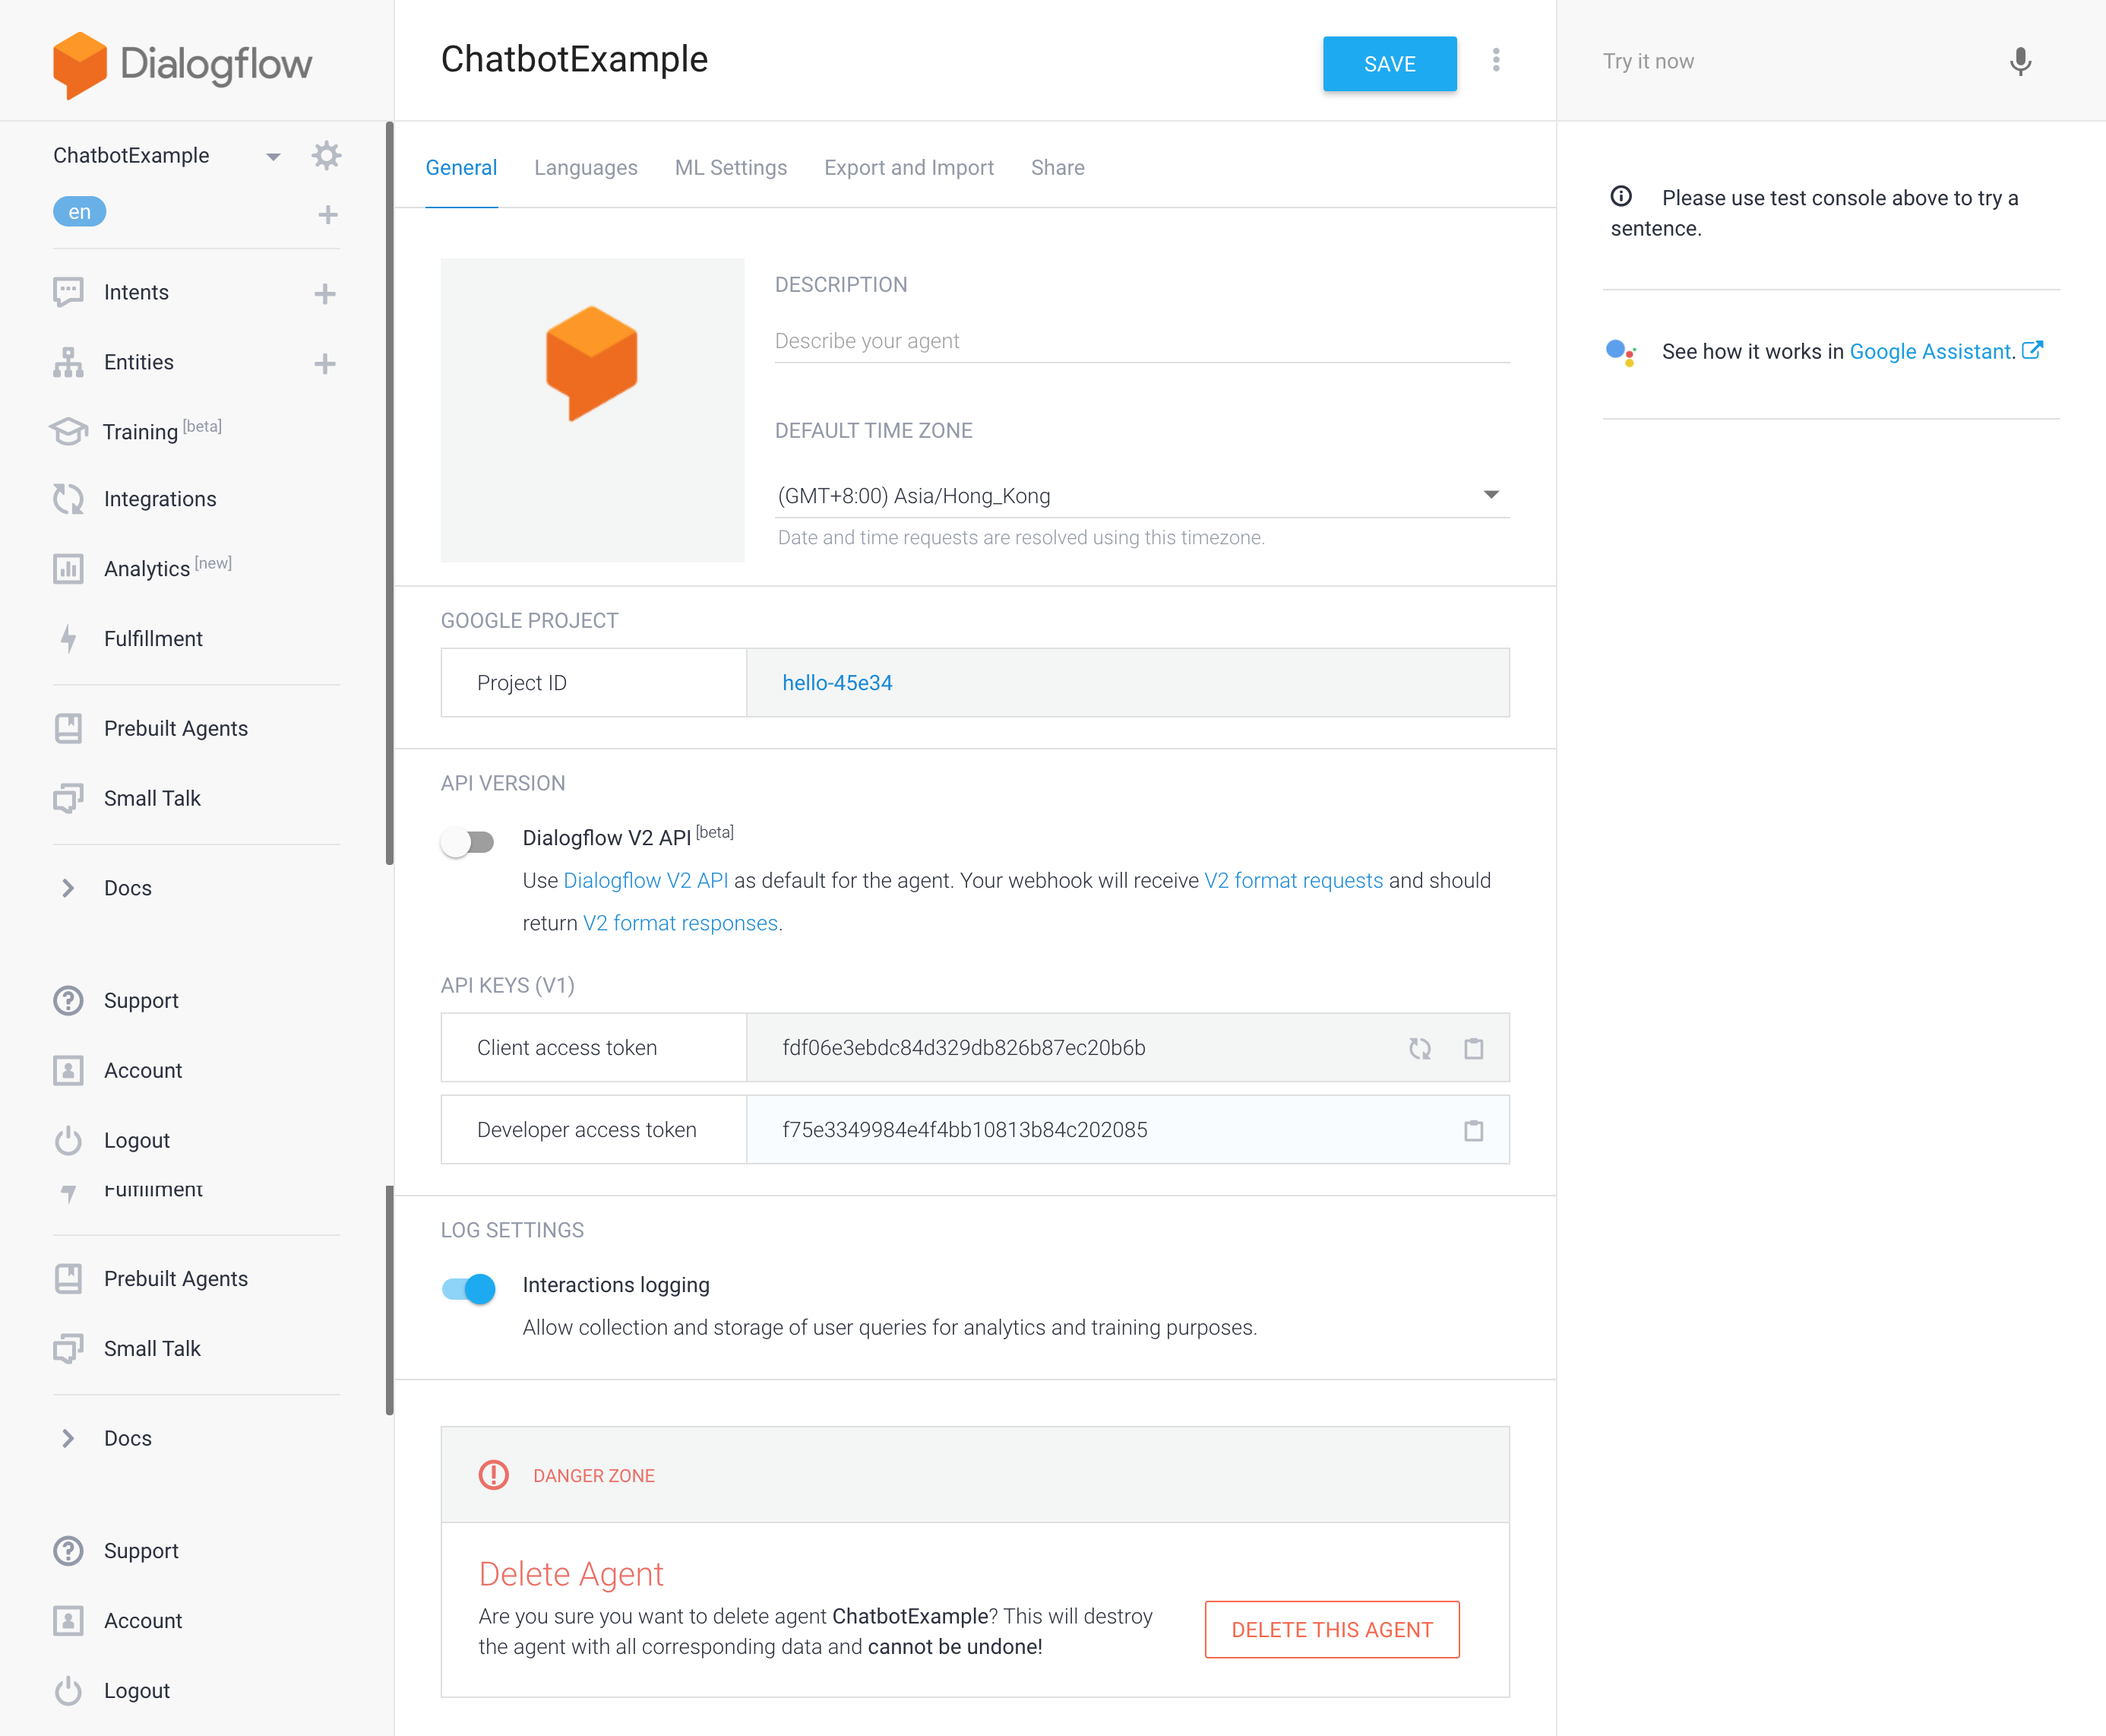
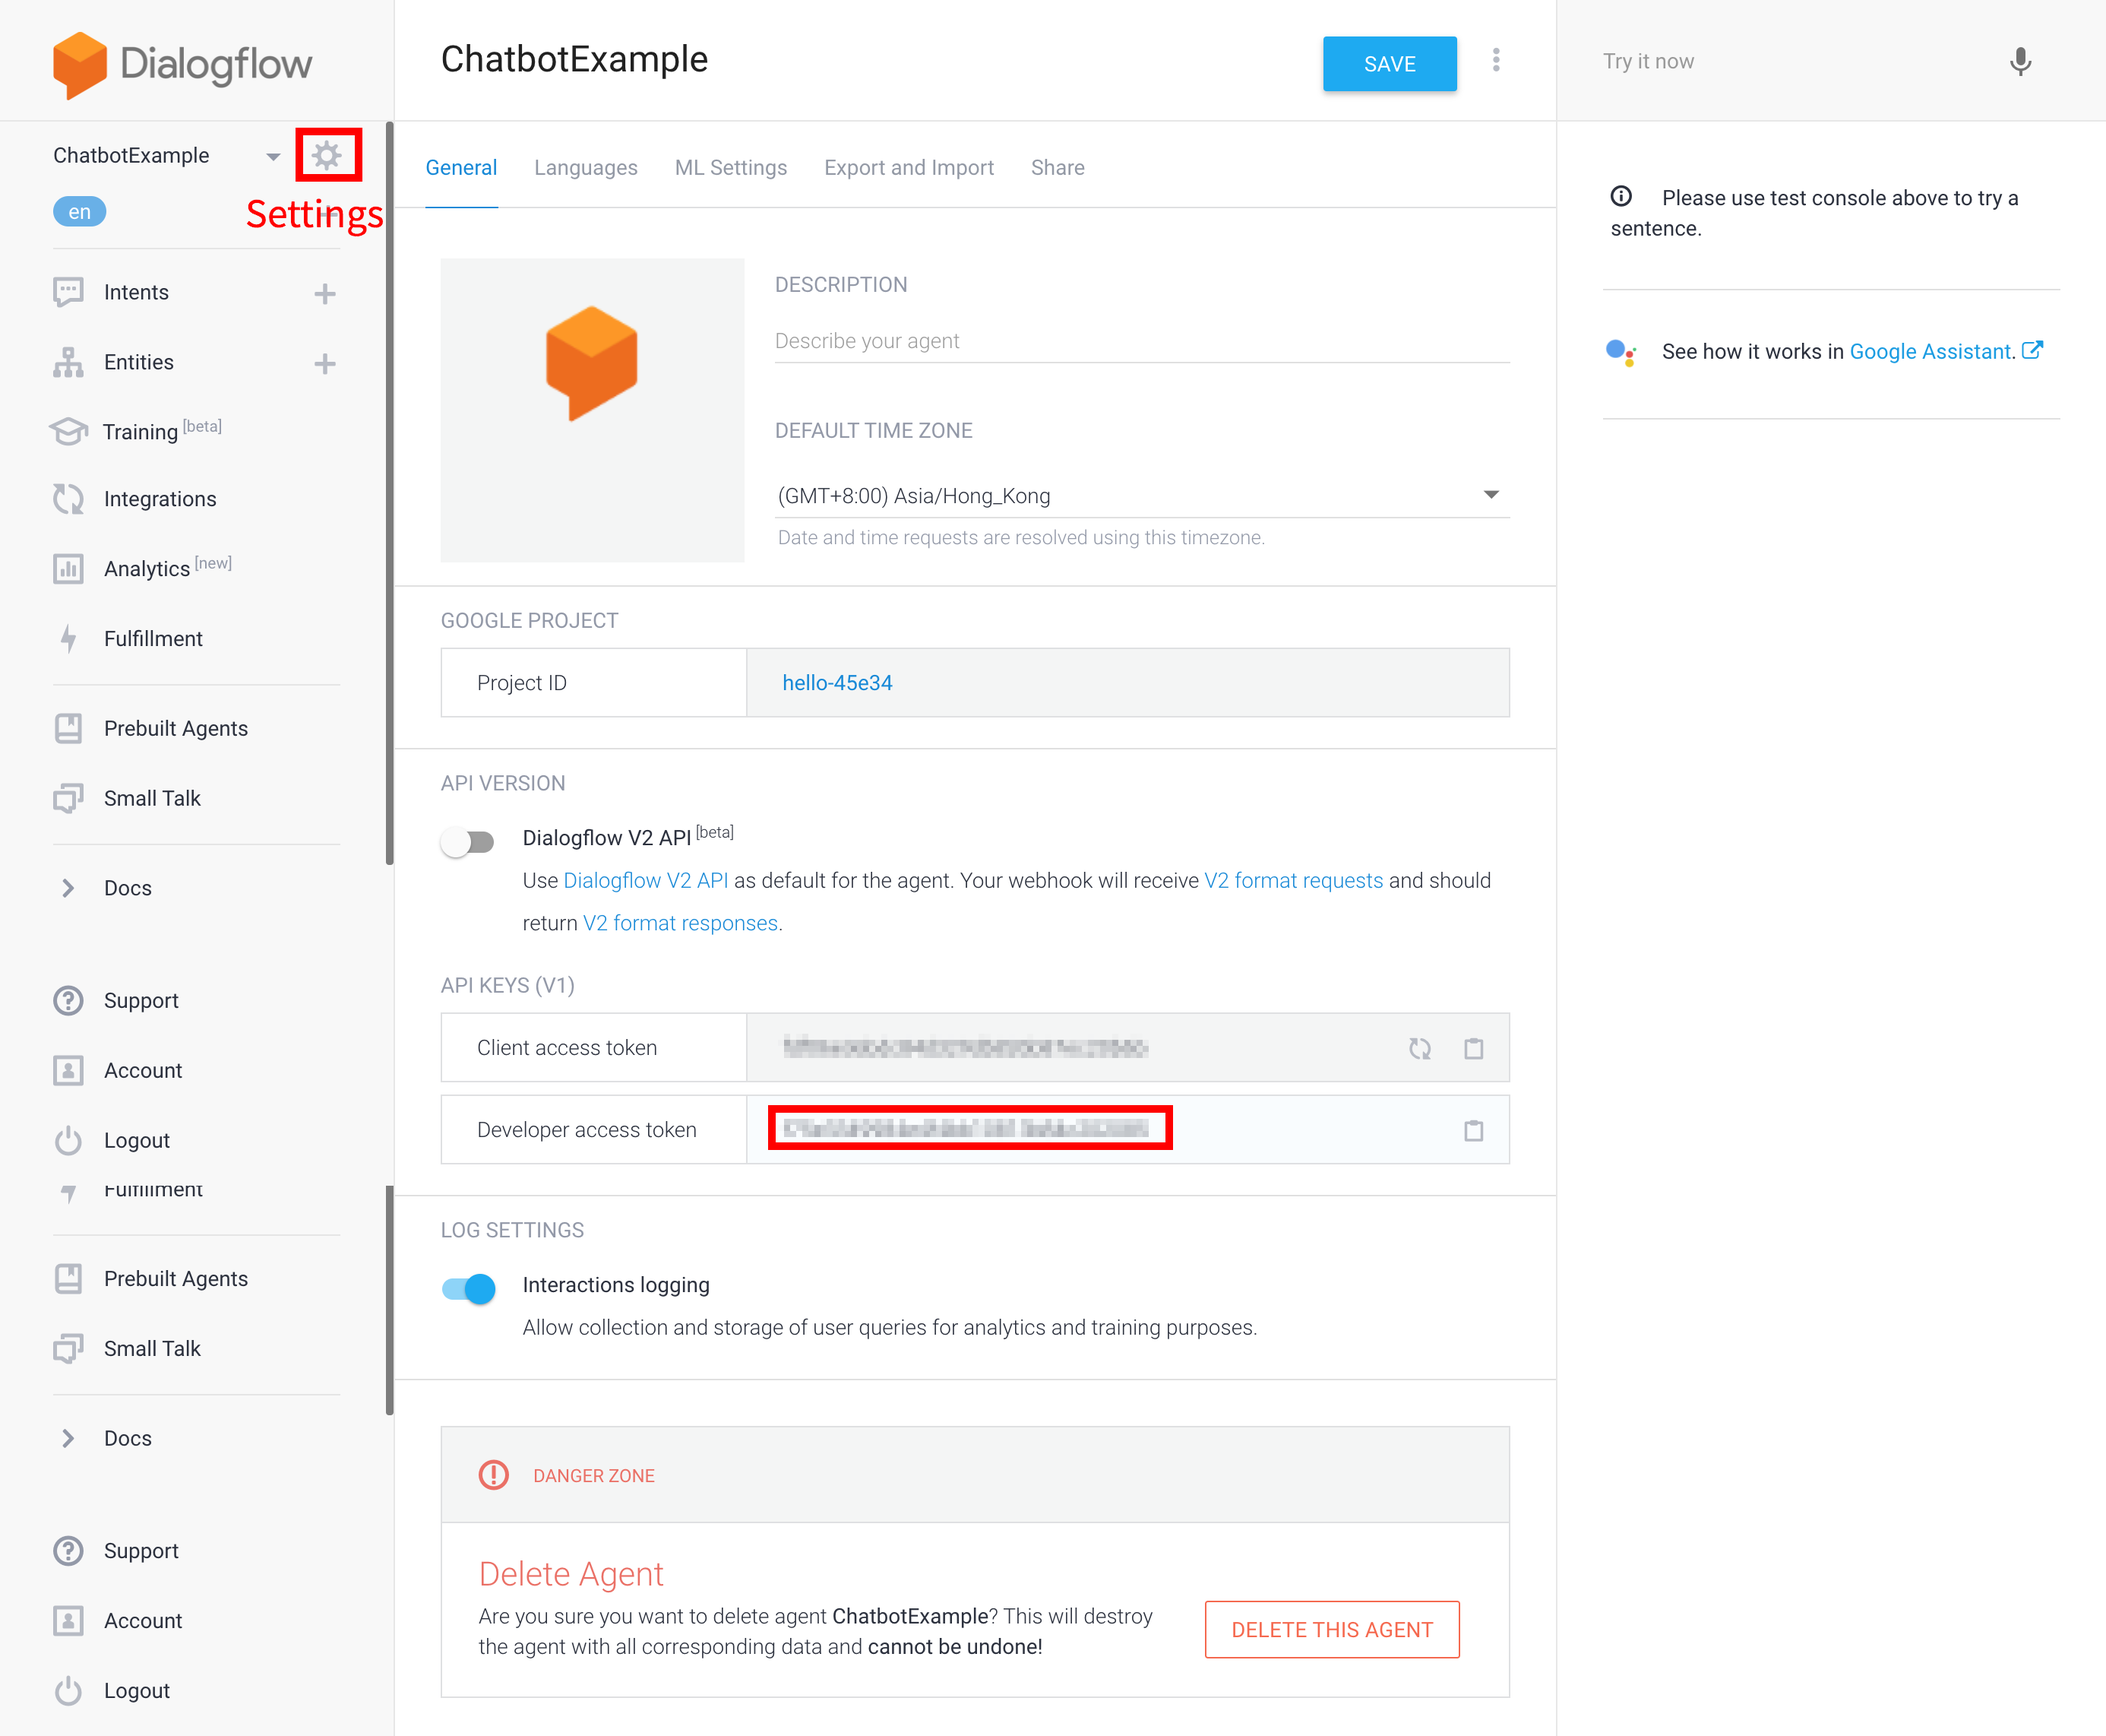
Add "Setup Your First Chatbot"

Changed region(s): [[0.3723, 0.5906, 0.5584, 0.6839], [0.1241, 0.0622, 0.1861, 0.1554]]

diff --git a/source/setup.md b/source/setup.md
@@ -1,4 +1,48 @@
 title: Setup Your First Chatbot
 ---
+## 1. Login to Chatbotman app
+Click **Login with Facebook** to login chatbotman with your Facebook account.
 
-## AAA
+![](screenshots/login-page.png)
+
+## 2. Begin the first setup
+Click **Get Started** to begin the first setup.
+
+![](screenshots/setup-welcome.png)
+
+## 3. Confirm the Facebook Messenger Opt In
+Tick **Send to Messenger** checkbox to allow us to send message for you. Then, click the **Next** button to continue the setup.
+
+![](screenshots/setup-opt-in.png)
+
+## 4. Confirm your user info
+By default, we would use your Facebook name and email for Chatbotman general notification only. If you want to change your name and email for Chatbotman, you may change it now. Then, click the **Next** button to continue the setup.
+
+![](screenshots/setup-user-info.png)
+
+## 5. Connect chatbot to your page
+We assume that you have already had a Facebook page. If you don't have a Facebook page, please follow [this tutorial](https://www.facebook.com/business/help/104002523024878) to create your Facebook Page.
+
+Select your favor Facebook page which you want to connect with our chatbot. Then, click the **Next** button to continue the setup.
+
+![](screenshots/setup-select-page.png)
+
+## 6. Login to Dialogflow
+Click [here](https://console.dialogflow.com/api-client/#/login) to login to your Dialogflow using your Google account.
+
+![](screenshots/dialogflow-login.png)
+
+## 7. Create a ## 7. Create a Dialogflow Agent
+Click the dropdown menu on the top-left corner. Then, type an agent name you like and click **Create** to create agent.
+
+![](screenshots/dialogflow-create-agent.png)
+
+## 8. Get the developer access token of the Dialogflow Agent
+Select your agent on the top-left dropdown menu. Then, click **Settings** to get the **developer access token**.
+
+![](screenshots/dialogflow-settings.png)
+
+## 9. Setup Dialogflow for your page
+Back to Chatbotman app, Copy your **developer access token** to the Facebook Page Settings. Then, click **Finish** to finish the first setup.
+
+![](screenshots/setup-dialogflow.png)

diff --git a/source/index.md b/source/index.md
@@ -8,7 +8,7 @@ Chatbotman is a powerful tool for creating an intelligent Facebook chatbot with 
 
 ## How to use?
 
-Go to [Chatbotman app](https://app.chatbotman.com/) first, then login with your Facebook account. Then follow the Setup step to create your own chatbot.
+Go to [Chatbotman app](https://app.chatbotman.com/) first, then login with your Facebook account. Then follow the [Setup](setup.html) tutorial to create your own chatbot.
 
 ### Requirements
 
